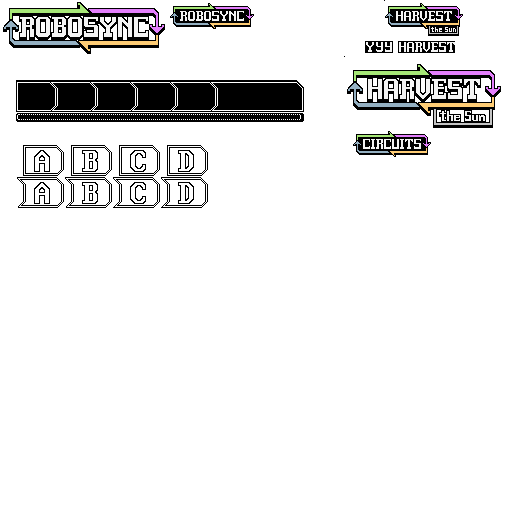
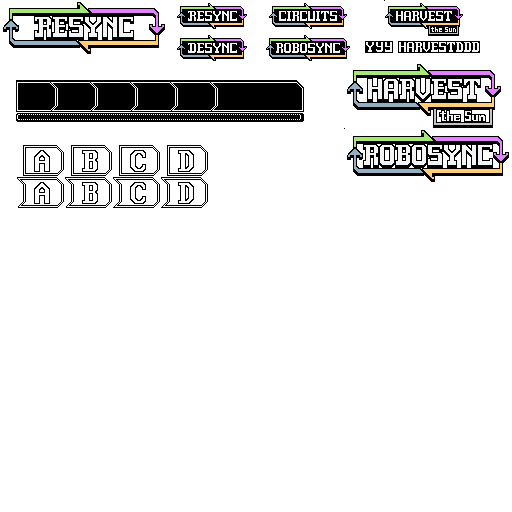
screen goes red when you die or otherwise fail the level

Changed region(s): [[0.0312, 0.0, 0.6875, 0.125], [0.6562, 0.25, 1.0, 0.3438], [0.875, 0.0625, 0.9375, 0.125]]

diff --git a/src/game/menus.py b/src/game/menus.py
@@ -699,6 +699,23 @@ class _GameState:
                 return False
         return True
 
+    def get_failure_message(self) -> str:
+        res = None
+        for idx in range(0, self._active_player_idx + 1):
+            player_type = self.get_player_type(idx)
+            if self.has_ever_died(idx):
+                res = f"{player_type.get_name()} was Destroyed."
+                break
+        if self.get_ticks_remaining() <= 0:
+            res = "Time Up!"
+
+        if res is not None:
+            if self._active_player_idx > 0:
+                res += f"\n[{keybinds.get_instance().get_keys(const.SOFT_RESET)}] to Retry"
+                res += f"\n[{keybinds.get_instance().get_keys(const.RESET)}] to Reset All"
+
+        return res
+
     def is_playing_back(self, player_idx):
         return self._currently_playing[player_idx]
 
@@ -942,6 +959,7 @@ class RealGameScene(_BaseGameScene, dialog.DialogScene):
         self._fadeout_duration = 90
 
         self.setup_new_world(bp)
+        self._handled_level_fail = False
 
         self._queued_next_world = None
         self._next_world_countdown = 0
@@ -953,6 +971,12 @@ class RealGameScene(_BaseGameScene, dialog.DialogScene):
     def on_level_exit(self):
         if self._on_level_exit is not None:
             self._on_level_exit()
+
+    def on_level_fail(self):
+        self.get_world_view().set_bg_colors([colors.PERFECT_DARK_RED, colors.PERFECT_VERY_DARK_RED], period=15, loop=False)
+        # self.get_world_view().fade_to_bg_color(colors.PERFECT_VERY_DARK_RED, delay=20)
+        # TODO sound / music change
+        # TODO screenshake
 
     def update_sprites(self):
         _BaseGameScene.update_sprites(self)
@@ -991,6 +1015,8 @@ class RealGameScene(_BaseGameScene, dialog.DialogScene):
         hard_reset_keys = keybinds.get_instance().get_keys(const.RESET)
         soft_reset_keys = keybinds.get_instance().get_keys(const.SOFT_RESET)
 
+        fail_msg = self._state.get_failure_message()
+
         if inputs.get_instance().was_pressed(hard_reset_keys) and self._state.get_status().can_hard_reset:
             self._state.reset(all_players=True)
             self.setup_new_world(self._state.bp)
@@ -1002,6 +1028,12 @@ class RealGameScene(_BaseGameScene, dialog.DialogScene):
             self._state.set_status(Statuses.TOTAL_SUCCESS)
             self.replace_players_with_fadeout(delay=self._fadeout_duration)
             self._state.set_status(Statuses.EXIT_NOW_SUCCESSFULLY, delay=self._fadeout_duration)
+
+        elif fail_msg is not None:
+            if not self._handled_level_fail:
+                self.on_level_fail()
+            self._handled_level_fail = True
+            # TODO display failure message
         else:
             active_satisfied = True
             for i in range(0, self._state.get_active_player_idx() + 1):
@@ -1066,6 +1098,8 @@ class RealGameScene(_BaseGameScene, dialog.DialogScene):
     def setup_new_world(self, bp):
         old_show_grid = False if self.get_world_view() is None else self.get_world_view()._show_grid
         super().setup_new_world(bp)
+
+        self._handled_level_fail = False
 
         # assume we don't intentionally have another new world queued up
         self._next_world_countdown = 0
@@ -1152,6 +1186,9 @@ class RealGameScene(_BaseGameScene, dialog.DialogScene):
         if self._progress_bar_ui is not None:
             for spr in self._progress_bar_ui.all_sprites():
                 yield spr
+
+    def get_clear_color(self):
+        return self.get_world_view().get_current_bg_color()
 
 
 class DebugGameScene(RealGameScene):

diff --git a/src/game/worldview.py b/src/game/worldview.py
@@ -41,6 +41,11 @@ class WorldView:
         self._temp_zoom_delay = 20
         self._use_temp_zoom = False
 
+        self._bg_colors = [colors.PERFECT_BLACK]
+        self._bg_colors_period = 120
+        self._bg_colors_tick = 0
+        self._loop_bg_colors = True
+
     def update(self):
         zoom_change = 0
         if inputs.get_instance().was_pressed(pygame.K_MINUS):
@@ -55,6 +60,8 @@ class WorldView:
             if not self._use_temp_zoom and self._temp_zoom_tick_count >= self._temp_zoom_delay:
                 # remove temp zoom
                 self._temp_zoom_idx = None
+
+        self._bg_colors_tick += 1
 
         if inputs.get_instance().was_pressed(pygame.K_f):
             self._free_camera = not self._free_camera
@@ -102,6 +109,34 @@ class WorldView:
 
     def set_free_camera(self, val):
         self._free_camera = val
+
+    def set_bg_colors(self, colors, period=120, loop=True):
+        if colors is None:
+            colors = [colors.PERFECT_BLACK]
+        elif isinstance(colors, tuple):
+            colors = [colors]
+
+        self._bg_colors = colors
+        self._bg_colors_tick = 0
+        self._bg_colors_period = period
+        self._loop_bg_colors = loop
+
+    def fade_to_bg_color(self, color, delay):
+        self.set_bg_colors([self.get_current_bg_color(), color], period=delay, loop=False)
+
+    def get_current_bg_color(self):
+        n_colors = len(self._bg_colors)
+        if n_colors == 0:
+            return colors.PERFECT_BLACK
+        elif n_colors == 1:
+            return self._bg_colors[0]
+        elif not self._loop_bg_colors and self._bg_colors_tick >= self._bg_colors_period * n_colors:
+            return self._bg_colors[-1]
+        else:
+            idx1 = (self._bg_colors_tick // self._bg_colors_period) % n_colors
+            idx2 = (idx1 + 1) % n_colors if self._loop_bg_colors else min(idx1 + 1, n_colors - 1)
+            prog = (self._bg_colors_tick % self._bg_colors_period) / self._bg_colors_period
+            return util.linear_interp(self._bg_colors[idx1], self._bg_colors[idx2], prog)
 
     def adjust_base_zoom(self, dz: int):
         old_center = self.get_camera_center_in_world(ignore_temp_zoom=True)

diff --git a/src/game/entities.py b/src/game/entities.py
@@ -3140,7 +3140,7 @@ class FalseBlockEntity(BlockEntity):
 
         # goes to black as it becomes more revealed
         reveal_prog = util.bound(self.reveal_ticks / FalseBlockEntity.REVEAL_TIME, 0, 1)
-        return colors.darken(base_color, reveal_prog)
+        return colors.darken(base_color, reveal_prog * 0.85)
 
     def update(self):
         super().update()

diff --git a/src/game/colors.py b/src/game/colors.py
@@ -56,6 +56,8 @@ PERFECT_VERY_DARK_GRAY = to_float(32, 32, 32)
 PERFECT_BLACK = to_float(0, 0, 0)
 
 PERFECT_RED = (1.0, 0.333, 0.333)
+PERFECT_DARK_RED = to_float(104, 16, 16)
+PERFECT_VERY_DARK_RED = to_float(32, 0, 0)
 PERFECT_GREEN = (0.5, 1.0, 0.5)
 PERFECT_BLUE = (0.5, 0.5, 1.0)
 PERFECT_PINK = (1, 0.5, 1)

diff --git a/configs.py b/configs.py
@@ -1,7 +1,7 @@
 
 import os.path
 
-name_of_game = "ROBOSYNC"
+name_of_game = "RESYNC"
 version = "1.0.0"
 
 
